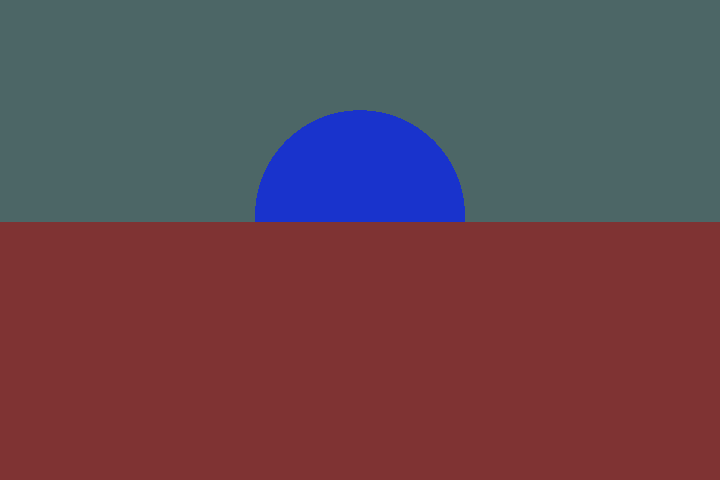
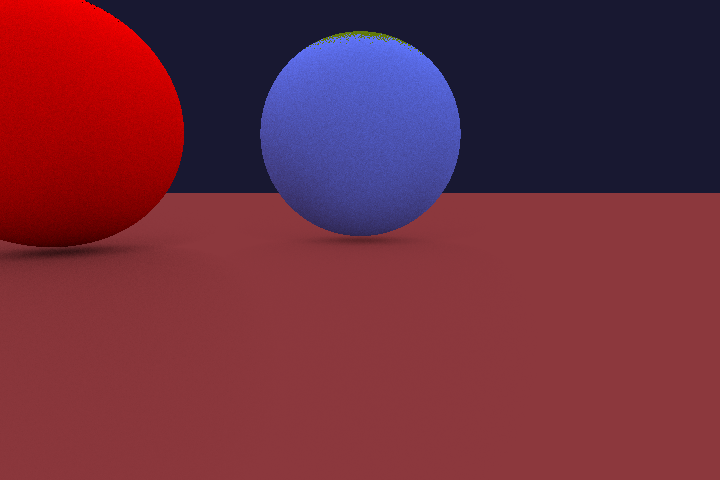
add specular

diff --git a/src/main.cpp b/src/main.cpp
@@ -2,11 +2,13 @@
 
 #include <stb_image.h>
 #include <vector>
+#include <stdlib.h>
 #include <limits.h>
 
 struct Material {
 	vec3 color;
 	vec3 emissive;
+	float specular; // 1 - very reflective, 0 - not reflective
 };
 
 struct Plane {
@@ -30,16 +32,25 @@ struct World {
 void setup_world(World *world) {
 	world->materials = {
 		Material {
-			.color    = { 0.3f, 0.4f, 0.4f },
-			.emissive = { 0.3f, 0.4f, 0.4f }
+			.color    = { 0.3f, 0.4f, 0.8f },
+			.emissive = { 1.1f, 1.1f, 1.2f },
+			// .emissive = {},
+			.specular = 0.0f
 		},
 		Material {
 			.color = { 0.5f, 0.2f, 0.2f },
-			.emissive = {}
+			.emissive = {},
+			.specular = 0.3f
 		},
 		Material {
 			.color = { 0.1f, 0.2f, 0.8f },
-			.emissive = {}
+			.emissive = {},
+			.specular = 0.9f
+		},
+		Material {
+			.color = { 1.0f, 0.0f, 0.0f },
+			.emissive = {},
+			.specular = 0.0f
 		},
 	};
 
@@ -53,10 +64,15 @@ void setup_world(World *world) {
 
 	world->spheres = {
 		Sphere {
-			.pos = { 0, 0, 1 },
-			.r = 5,
-			.mat_index = 2
-		}
+			.pos = { 0, 0, 2.1 },
+			.r = 2,
+			.mat_index = 0
+		},
+		Sphere {
+			.pos = { 5, 2, 2.1 },
+			.r = 2,
+			.mat_index = 3
+		},
 	};
 }
 
@@ -100,30 +116,104 @@ float intersect_sphere(Sphere sphere, Ray ray) {
 	return result1 > result2 ? result2 : result1;
 }
 
-vec3 ray_cast(World *world, Ray ray) {
-	int mat_index = 0;
-	float min_distance = MAXFLOAT;
+u32 state;
+inline u32 xor_shift_32() {
+	u32 x = state;
+	x ^= x << 13;
+	x ^= x >> 17;
+	x ^= x << 5;
+	state = x;
+	return x;
+}
 
-	// first bounce 
-	for (int bounce = 0; bounce < 2; ++bounce) {
-		for (auto& plane : world->planes) {
-			float distance = intersect_plane(plane, ray);
-			if (distance > 0 && distance < min_distance) {
-				mat_index = plane.mat_index;
-				min_distance = distance;
+vec3 rand_vec() {
+	vec3 res;
+	res.x = -1.0f + float(xor_shift_32() % 1000) / 500.0f;
+	res.y = -1.0f + float(xor_shift_32() % 1000) / 500.0f;
+	res.z = -1.0f + float(xor_shift_32() % 1000) / 500.0f;
+	return res;
+}
+
+vec3 ray_cast(World *world, Ray _ray) {
+	const int bounce_count = 8;
+	const int sample_count = 200;
+
+	vec3 res = {};
+
+	for (int sample = 0; sample < sample_count; ++sample) {
+		Ray ray = _ray;
+		vec3 color = {};
+		vec3 attenuation = { 1, 1, 1 };
+
+		for (int bounce = 0; bounce < bounce_count; ++bounce) {
+			float min_distance = MAXFLOAT;
+			bool hit = false;
+			int mat = 0;
+			vec3 normal = {};
+
+			Ray new_ray;
+			for (auto& plane : world->planes) {
+				float distance = intersect_plane(plane, ray);
+				if (distance > 0 && distance < min_distance) {
+					hit = true;
+					mat = plane.mat_index;
+					min_distance = distance;
+
+					// update ray
+					new_ray.origin = distance * ray.dir + ray.origin;
+					normal = plane.normal;
+
+					vec3 reflection_ray = reflect(ray.dir, plane.normal);
+					new_ray.dir = lerp(norm(rand_vec()), reflection_ray, world->materials[mat].specular);
+					if (dot(new_ray.dir, plane.normal) < 0) {
+						new_ray.dir = -new_ray.dir;
+					}
+				}
+			}
+
+			for (auto& sphere : world->spheres) {
+				float distance = intersect_sphere(sphere, ray);
+				if (distance > 0 && distance < min_distance) {
+					hit = true;
+					mat = sphere.mat_index;
+					min_distance = distance;
+
+					new_ray.origin = distance * ray.dir + ray.origin;
+
+					normal = norm(new_ray.origin - sphere.pos);
+					vec3 reflection_ray = reflect(ray.dir, normal);
+
+					new_ray.dir = lerp(norm(rand_vec()), reflection_ray, world->materials[mat].specular);
+					if (dot(new_ray.dir, new_ray.origin - sphere.pos) < 0) {
+						new_ray.dir = -new_ray.dir;
+					}
+				}
+			}
+
+			if (hit) {
+				float cos_att = -dot(normal, ray.dir); // normal and ray dir have lenght 1
+				assert(cos_att > 0.0f && cos_att <= 1.0f);
+				if (!bounce) cos_att = 1;
+
+				color = color + mul(attenuation, cos_att * world->materials[mat].emissive);
+				attenuation = mul(attenuation, cos_att * world->materials[mat].color);
+				ray = new_ray;
+				/*
+				// material is very emissive, so other emitters don't matter much.
+				if (length2(world->materials[mat].emissive) > 2.1) {
+					break;
+				}
+				*/
+			} else {
+				color = color + mul(attenuation, world->materials[mat].emissive);
+				break;
 			}
 		}
 
-		for (auto& sphere : world->spheres) {
-			float distance = intersect_sphere(sphere, ray);
-			if (distance > 0 && distance < min_distance) {
-				mat_index = sphere.mat_index;
-				min_distance = distance;
-			}
-		}
+		res = res + color;
 	}
 
-	return world->materials[mat_index].color;
+	return 1.0 / float(sample_count) * res;
 }
 
 Color vec_to_color(vec3 v) {
@@ -134,52 +224,70 @@ Color vec_to_color(vec3 v) {
 	};
 }
 
+struct Camera {
+	vec3 pos;
+	vec3 look_at;
+	vec3 dir;
+	vec3 up;
+	vec3 right;
+
+	void update() {
+		dir = norm(pos - look_at);
+		vec3 _up = { 0, 0, 1 };
+		right = cross(_up, dir);
+		up = cross(dir, right);
+	}
+};
+
 int main() {
 	World world;
 	setup_world(&world);
 
+	srand(time(NULL));
+	state = rand();
+
 	s32 image_width  = 720;
 	s32 image_height = 480;
 
-	vec3 camera_pos = { 0, 10, 1 };
-	vec3 look_at = { 0, 0, 0 };
-	vec3 camera_dir = norm(camera_pos - look_at);
+	Camera camera;
+	camera.pos     = { 0, 10, 1 };
+	camera.look_at = { 0, 0, 0 };
+	camera.update();
 
-	vec3 up = { 0, 0, 1 };
-	vec3 camera_right = cross(up, camera_dir);
-	vec3 camera_up = cross(camera_dir, camera_right);
+	float filmDistance = 1.0;
+    vec3 filmCenter = camera.pos - filmDistance * camera.dir;
 
-	float x_scale = 1.0f;
-	float y_scale = float(image_height) / float(image_width);
-	if (image_height > image_width) {
-		x_scale = float(image_width) / float(image_height);
-		y_scale = 1.0f;
-	}
+    float filmWidth = 1.0f * float(image_width) / float(image_height);
+    float filmHeight = 1.0f;
 
-	std::vector<Color> buf;
-	buf.resize(image_width * image_height);
+    float halfFilmWidth = filmWidth * 0.5f;
+    float halfFilmHeight = filmHeight * 0.5f;
 
-	vec3 lens_pos = camera_pos - 0.5 * camera_dir;
+    float pixelWidth = 0.5f / image_width;
+    float pixelHeight = 0.5f / image_height;
 
-	for (int y = 0; y < image_height; ++y) {
-		float fy = 1.0f - float(y) / float(image_height-1) * 2;
-		fy *= y_scale;
-		int pos_in_buffer = y * image_width;
-		for (int x = 0; x < image_width; ++x) {
-			float fx = -1.0f + float(x) / float(image_width-1) * 2;
-			fx *= x_scale;
+	std::vector<Color> img;
+	img.resize(image_width * image_height);
 
-			vec3 global_pos = fx * camera_right + fy * camera_up + lens_pos;
-			Ray ray;
-			ray.dir = norm(global_pos - camera_pos);
-			ray.origin = camera_pos;
+	float max_color = {};
+    for (int32_t y = 0; y < image_height; ++y) {
+        float filmY = ((float) y / (float) image_height) * -2.0f + 1.0f;
+        for (int32_t x = 0; x < image_width; ++x) {
+            float filmX = (((float) x / (float) image_width) * 2.0f - 1.0f);
+
+			vec3 filmPosition = filmCenter + filmX * halfFilmWidth * camera.right  + filmY * halfFilmHeight * camera.up;
+
+			Ray ray = {};
+			ray.origin = camera.pos;
+			ray.dir = norm(filmPosition - camera.pos);
+
 			vec3 color = ray_cast(&world, ray);
 
-			buf[pos_in_buffer + x] = vec_to_color(color);
-		}
-	}
+			img[y * image_width + x] = vec_to_color(color);
+        }
+    }
 
-	stbi_write_png("test.png", image_width, image_height, sizeof(Color), buf.data(), image_width * sizeof(Color));
+	stbi_write_png("test.png", image_width, image_height, sizeof(Color), img.data(), image_width * sizeof(Color));
 
 	return 0;
 }

diff --git a/src/math.hpp b/src/math.hpp
@@ -2,6 +2,7 @@
 
 #include <inttypes.h>
 #include <math.h>
+#include <stdio.h>
 
 typedef uint8_t  u8;
 typedef uint16_t u16;
@@ -16,7 +17,18 @@ typedef int64_t s64;
 
 struct vec3 {
 	float x, y, z;
+
+	vec3() { x = 0; y = 0; z = 0; }
+	vec3(float _x, float _y, float _z) : x(_x), y(_y), z(_z) {}
+
+	bool zero() {
+		return x == 0 && y == 0 && z == 0;
+	}
 };
+
+void printl(vec3 v) {
+	printf("{%f; %f; %f}\n", v.x, v.y, v.z);
+}
 
 inline vec3 operator+(vec3 a, vec3 b) {
 	return vec3 {
@@ -62,8 +74,28 @@ inline vec3 cross(vec3 a, vec3 b) {
 	};
 }
 
+inline vec3 reflect(vec3 v, vec3 n) {
+	return v - 2.0f * dot(v, n) * n;
+}
+
+inline vec3 lerp(vec3 a, vec3 b, float value) {
+	return (1.0f - value) * a + value * b;
+}
+
+inline vec3 mul(vec3 a, vec3 b) {
+	return {
+		a.x * b.x,
+		a.y * b.y,
+		a.z * b.z
+	};
+}
+
 float length(vec3 a) {
 	return sqrt(dot(a, a));
+}
+
+float length2(vec3 a) {
+	return dot(a, a);
 }
 
 inline vec3 norm(vec3 a) {
